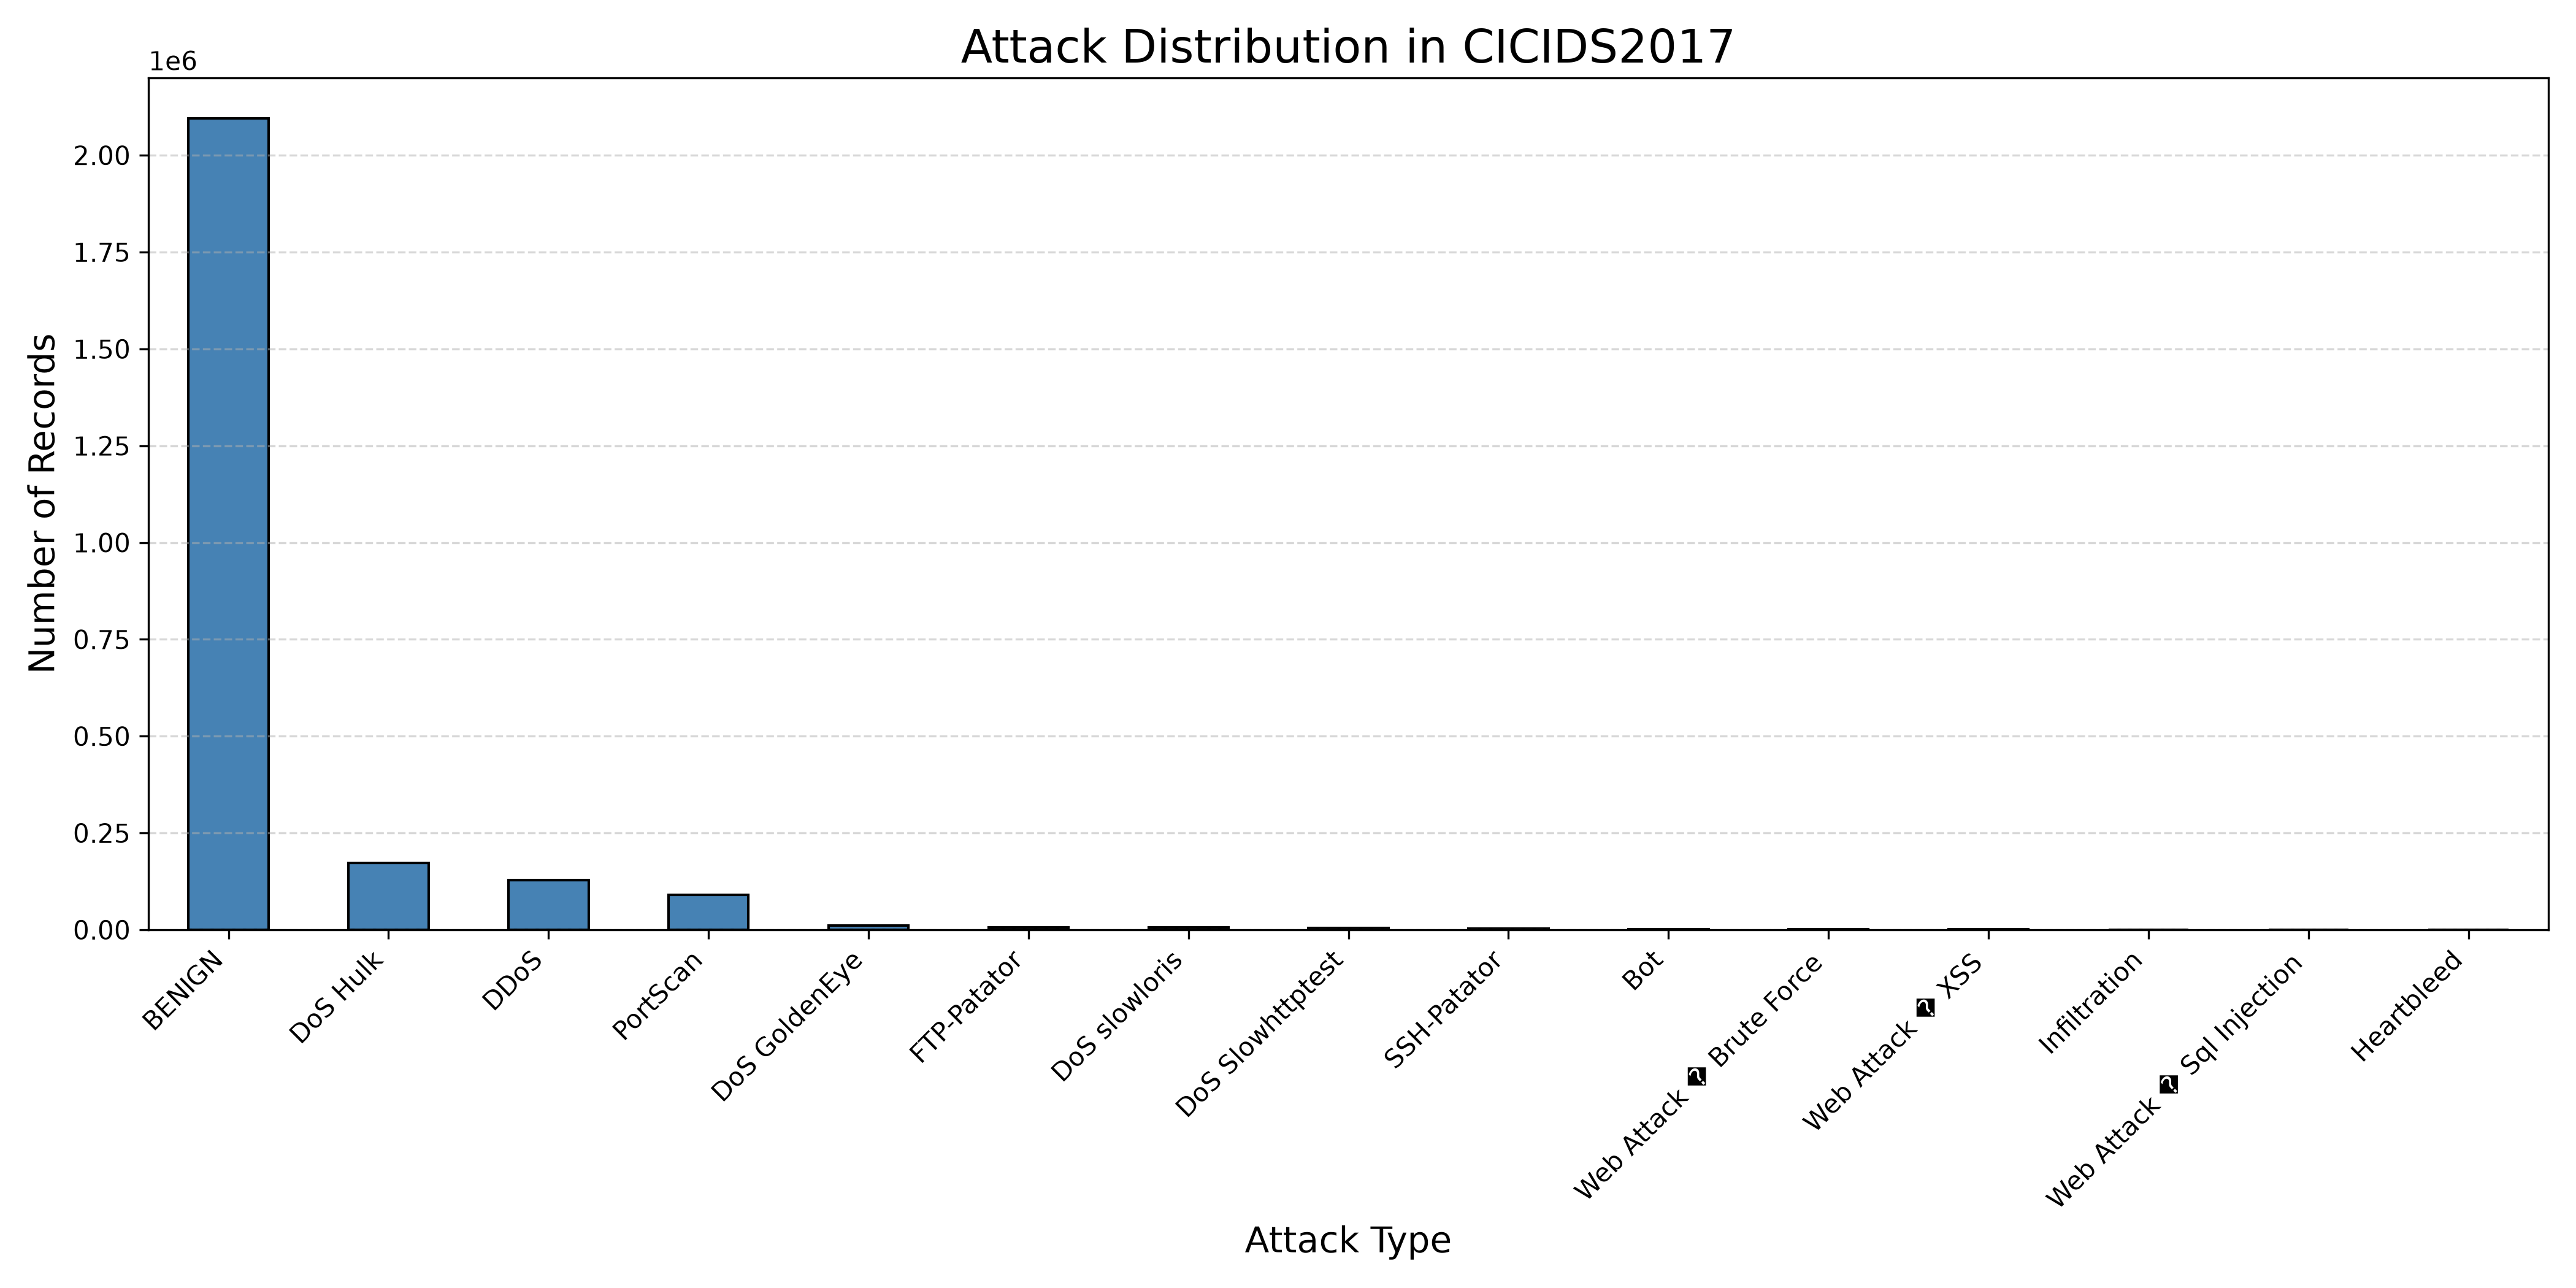
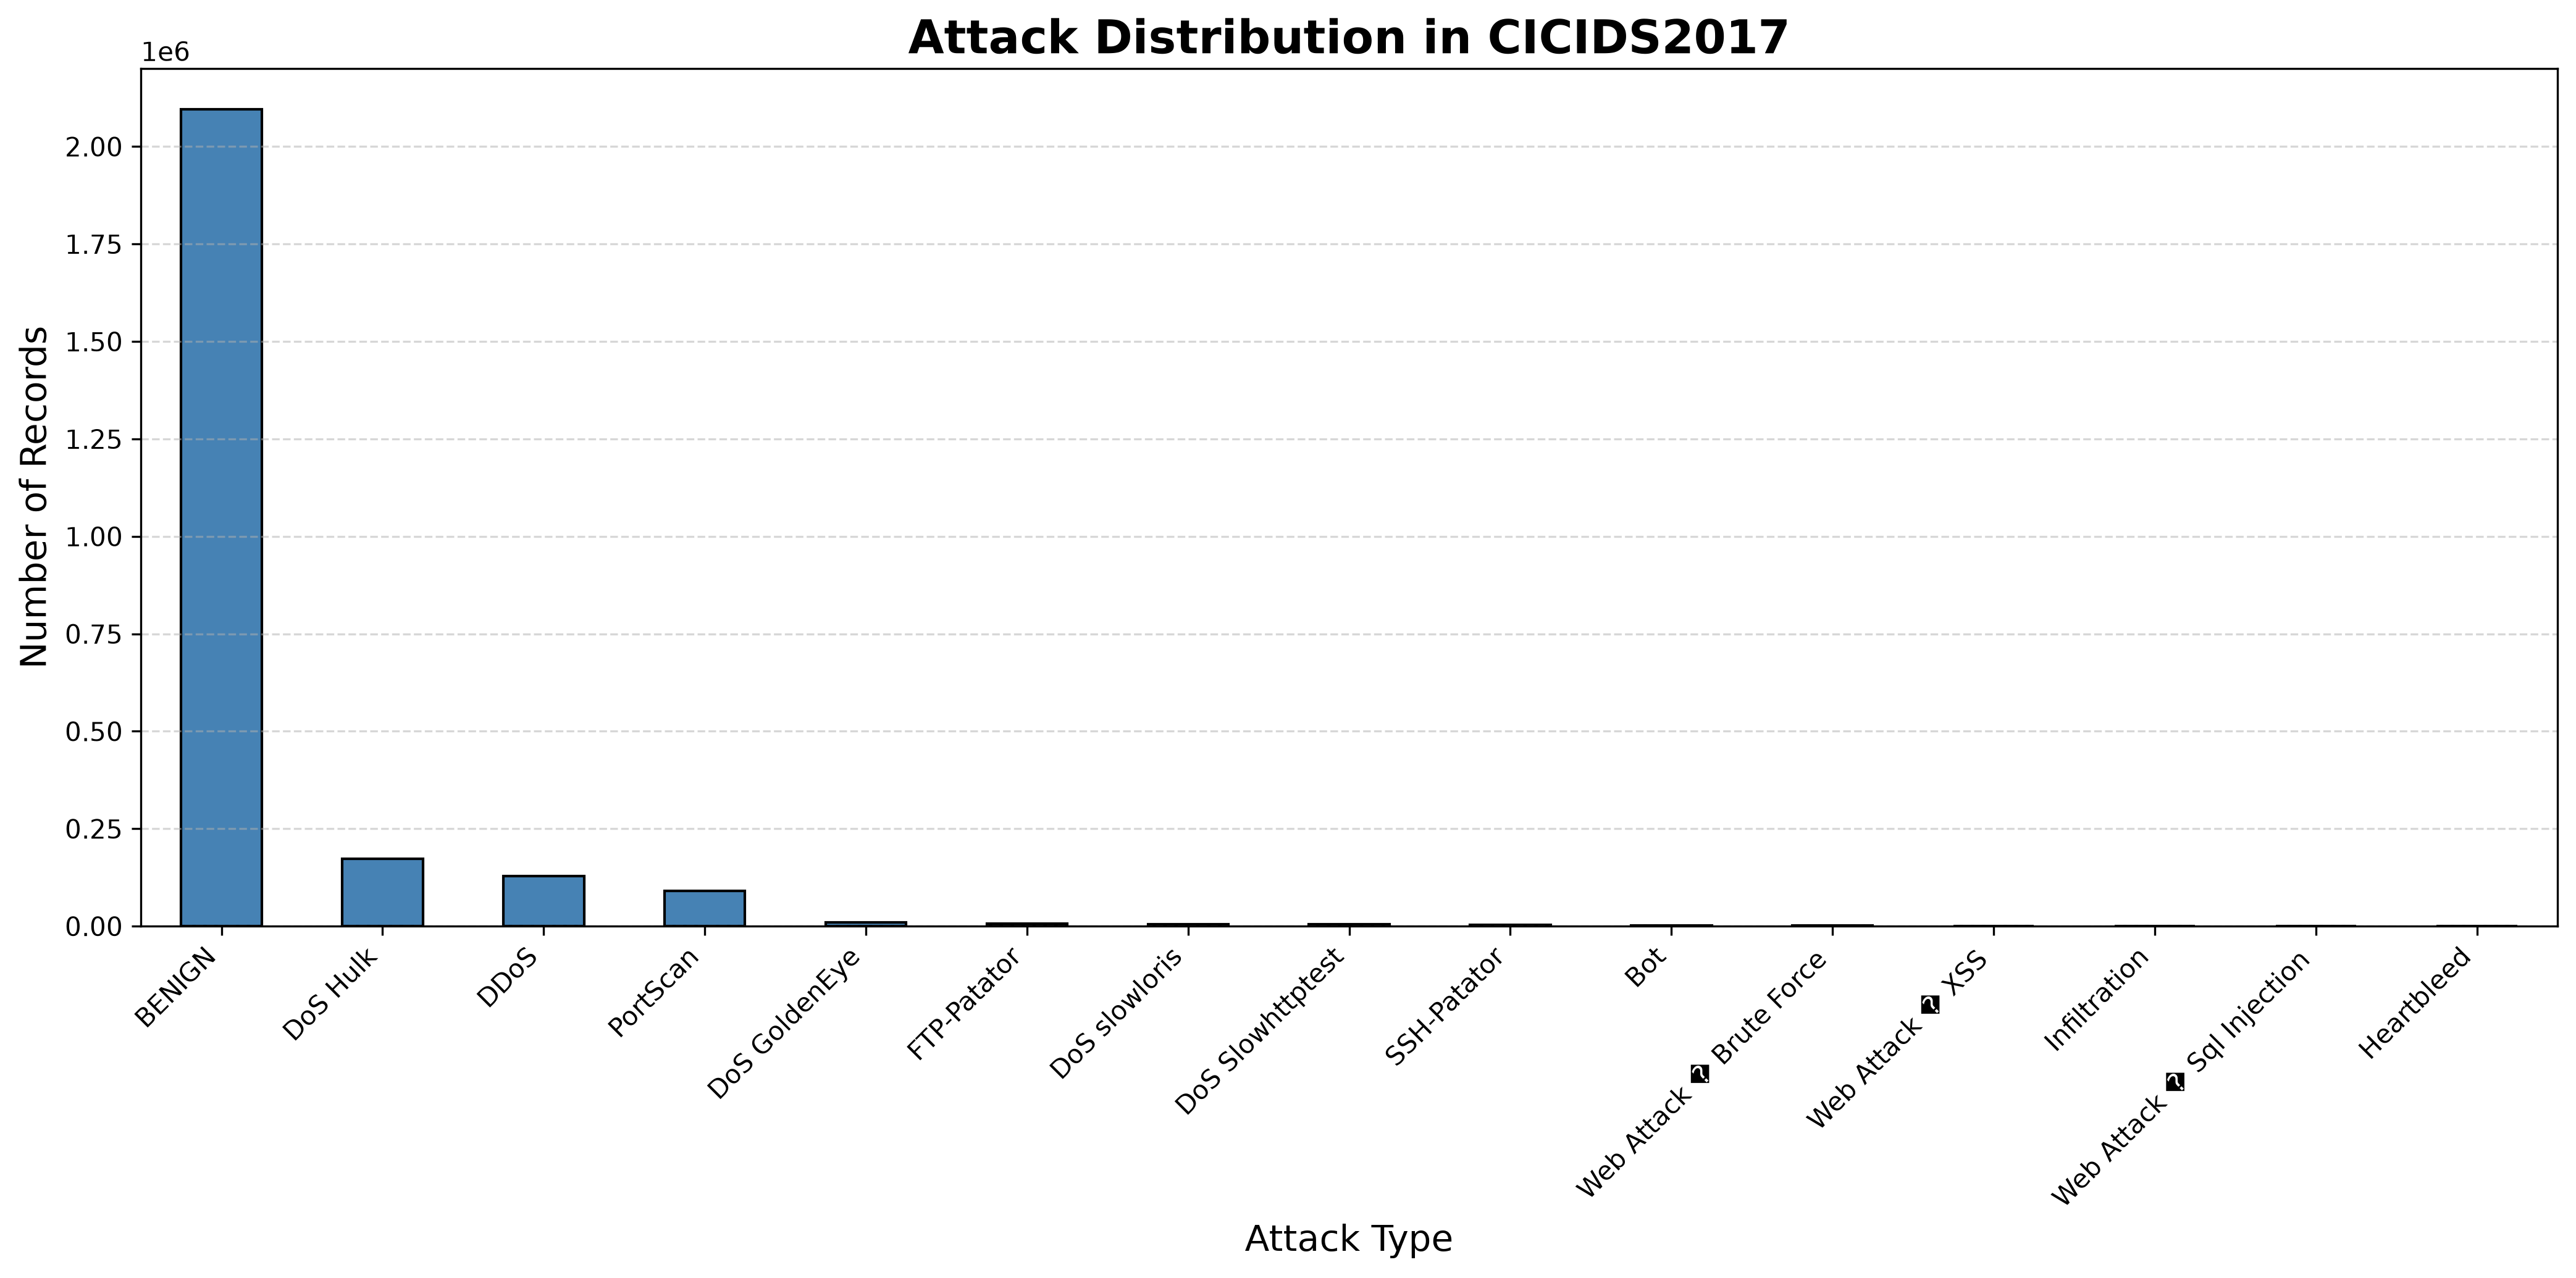
Add professional dataset cleaning module

diff --git a/src/eda.py b/src/eda.py
@@ -1,28 +1,109 @@
+"""
+===========================================================
+Project : AI-Based Cyber Threat Detection Framework
+File    : attack_distribution.py
+Author  : Chandrakant
+Purpose : Visualize attack label distribution in the
+          cleaned CICIDS2017 dataset.
+===========================================================
+"""
+
+from pathlib import Path
 import pandas as pd
 import matplotlib.pyplot as plt
 
-# Load dataset
-df = pd.read_csv("../CICIDS2017_Clean.csv")
 
-# Remove spaces from column names
-df.columns = df.columns.str.strip()
+# ==========================================================
+# Project Paths
+# ==========================================================
 
-# Count labels
-attack_count = df["Label"].value_counts()
+BASE_DIR = Path(__file__).resolve().parent.parent
 
-# Plot
-plt.figure(figsize=(14,7))
-attack_count.plot(kind="bar", color="steelblue", edgecolor="black")
+DATA_PATH = BASE_DIR / "data" / "processed" / "CICIDS2017_Clean.csv"
 
-plt.title("Attack Distribution in CICIDS2017", fontsize=18)
-plt.xlabel("Attack Type", fontsize=14)
-plt.ylabel("Number of Records", fontsize=14)
+IMAGE_DIR = BASE_DIR / "images"
 
-plt.xticks(rotation=45, ha="right")
-plt.grid(axis="y", linestyle="--", alpha=0.5)
+IMAGE_DIR.mkdir(parents=True, exist_ok=True)
 
-plt.tight_layout()
 
-plt.savefig("../images/Attack_Distribution.png", dpi=300)
+# ==========================================================
+# Attack Distribution Function
+# ==========================================================
 
-plt.show()
+def plot_attack_distribution():
+
+    try:
+
+        print("=" * 60)
+        print("Loading cleaned dataset...")
+
+        df = pd.read_csv(DATA_PATH)
+
+        print("Dataset loaded successfully.")
+        print(f"Dataset Shape : {df.shape}")
+
+        # Remove unwanted spaces
+        df.columns = df.columns.str.strip()
+
+        # Count attack labels
+        attack_count = df["Label"].value_counts()
+
+        print("\nGenerating attack distribution graph...")
+
+        plt.figure(figsize=(14, 7))
+
+        attack_count.plot(
+            kind="bar",
+            color="steelblue",
+            edgecolor="black"
+        )
+
+        plt.title(
+            "Attack Distribution in CICIDS2017",
+            fontsize=18,
+            fontweight="bold"
+        )
+
+        plt.xlabel("Attack Type", fontsize=14)
+
+        plt.ylabel("Number of Records", fontsize=14)
+
+        plt.xticks(rotation=45, ha="right")
+
+        plt.grid(axis="y", linestyle="--", alpha=0.5)
+
+        plt.tight_layout()
+
+        save_path = IMAGE_DIR / "Attack_Distribution.png"
+
+        plt.savefig(
+            save_path,
+            dpi=300,
+            bbox_inches="tight"
+        )
+
+        print(f"Graph saved to : {save_path}")
+
+        plt.show()
+
+        plt.close()
+
+        print("Program completed successfully.")
+        print("=" * 60)
+
+    except FileNotFoundError:
+
+        print("ERROR : Clean dataset not found.")
+        print(f"Expected Location : {DATA_PATH}")
+
+    except Exception as error:
+
+        print(f"Unexpected Error : {error}")
+
+
+# ==========================================================
+# Main
+# ==========================================================
+
+if __name__ == "__main__":
+    plot_attack_distribution()